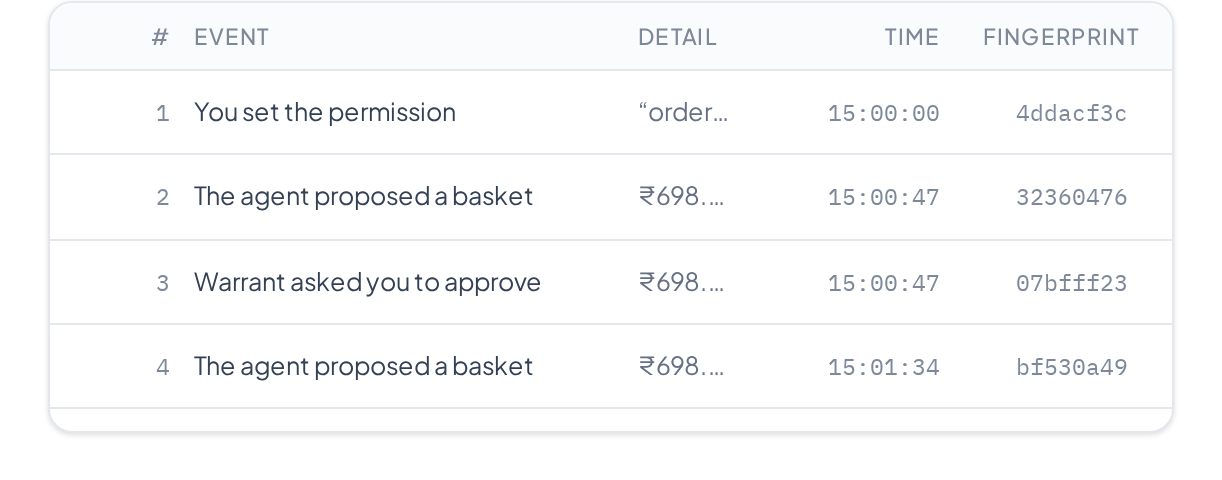
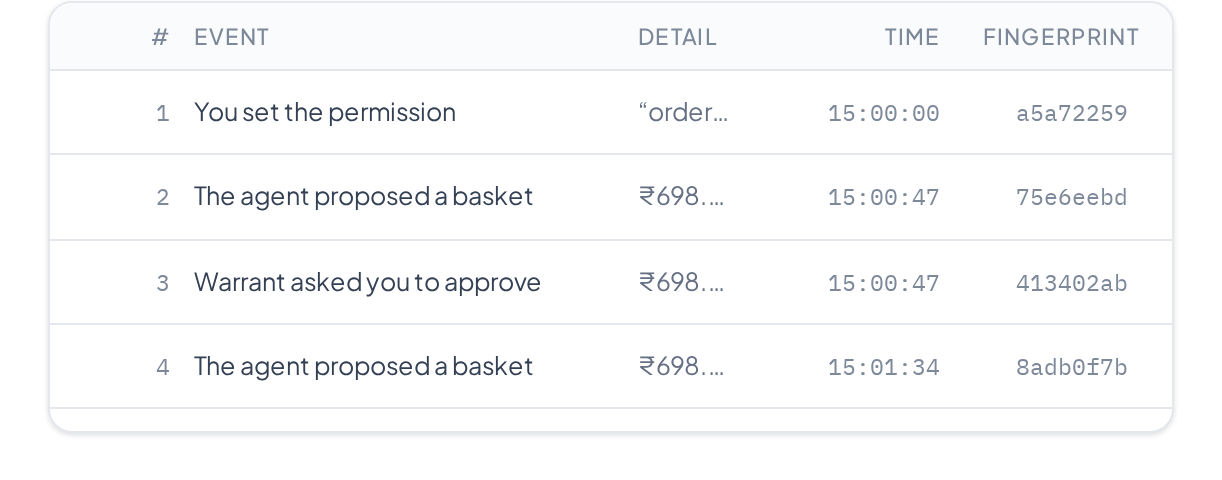
Say why there is no Razorpay button when there is no Razorpay key
Someone cloning this has no .env, so `razorpayReady` is false, the pay button
never renders, and the console said nothing about it. The single leg that makes
this a payments project was invisible to everyone who had not already
configured it — which is every first-time reader, and the whole audience.

A settled basket on an unconfigured deployment now says so, names the two
variables, and says what setting them does. The rail's own reason is shown too,
but only when it is something other than "no keys" — refusing a live key, say.
Repeating "set the keys" under a sentence that just said it is noise.

Verified by running the console with the credentials deliberately unset.

Also verified, for the first time since the console was rebuilt: all 11 gates
pass from a cold clone of the public repo, with no .env, no Razorpay keys and no
model key. The README and SUBMISSION.md both claim that; now it has been run.

diff --git a/console/src/components/Feed.tsx b/console/src/components/Feed.tsx
@@ -21,6 +21,7 @@ export function Feed({
   onApprove,
   onDecline,
   onPay,
+  payUnavailable,
   payments,
   payError,
 }: {
@@ -33,6 +34,8 @@ export function Feed({
   onDecline: () => void;
   /** Absent when this deployment has no Razorpay credentials. */
   onPay?: (item: FeedItem) => void;
+  /** Razorpay's own reason for being unreachable, when it is. */
+  payUnavailable?: string;
   payments: Record<string, VerifiedPayment>;
   payError: string | null;
 }) {
@@ -47,6 +50,7 @@ export function Feed({
           onApprove={() => onApprove(item)}
           onDecline={onDecline}
           onPay={onPay}
+          payUnavailable={payUnavailable}
           payment={payments[item.id]}
           payError={payError}
         />
@@ -74,6 +78,7 @@ function Entry({
   onApprove,
   onDecline,
   onPay,
+  payUnavailable,
   payment,
   payError,
 }: {
@@ -83,6 +88,7 @@ function Entry({
   onApprove: () => void;
   onDecline: () => void;
   onPay?: (item: FeedItem) => void;
+  payUnavailable?: string;
   payment?: VerifiedPayment;
   payError: string | null;
 }) {
@@ -184,8 +190,26 @@ function Entry({
               </em>
             </span>
           </div>
+        ) : !onPay ? (
+          // A clone with no Razorpay keys has no button, and used to be told
+          // nothing at all -- so the one leg that makes this a payments project
+          // was invisible to anyone who had not configured it.
+          <div className="entry-rail">
+            <span className="entry-meta">
+              <b>Razorpay is not configured here</b>, so this settled on the
+              simulator. Set <code>RAZORPAY_KEY_ID</code> and{" "}
+              <code>RAZORPAY_KEY_SECRET</code> and this basket opens
+              Razorpay&rsquo;s own payment sheet on a real test-mode order.
+              {/* The rail's own reason, but only when it is something other
+                  than "no keys" -- refusing a live key, say. Repeating "set the
+                  keys" underneath a sentence that just said it is noise. */}
+              {payUnavailable && !payUnavailable.startsWith("Set RAZORPAY_KEY_ID")
+                ? ` ${payUnavailable}`
+                : ""}
+            </span>
+          </div>
         ) : (
-          onPay && (
+          (
             <div className="entry-rail">
               <button className="btn btn-primary" onClick={() => onPay(item)} disabled={busy}>
                 {busy ? "Opening Razorpay…" : `Pay ${rupees(total)} on Razorpay`}

diff --git a/console/src/App.tsx b/console/src/App.tsx
@@ -592,6 +592,7 @@ export function App() {
             onApprove={approveEscalation}
             onDecline={() => setDeclined(true)}
             onPay={razorpayReady && meta?.razorpay_key_id ? payOnRazorpay : undefined}
+            payUnavailable={meta?.rails.find((r) => r.id === "razorpay" && !r.available)?.note}
             payments={paid}
             payError={payError}
           />
